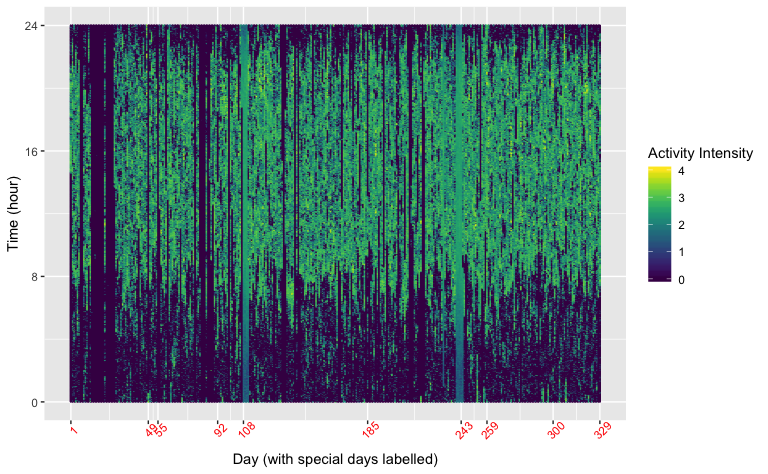
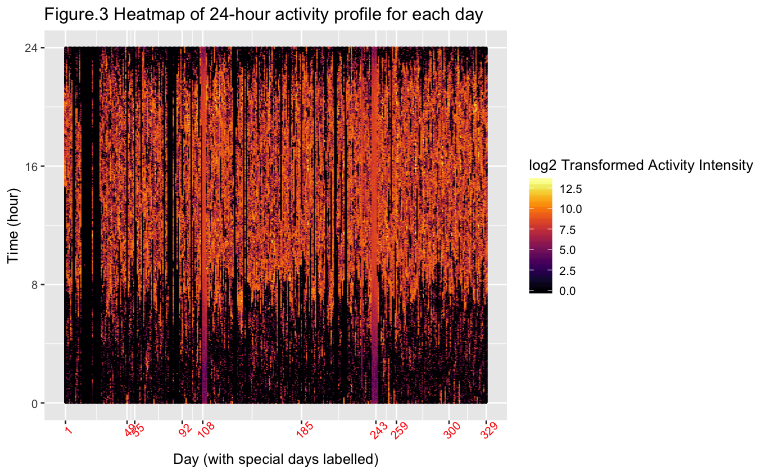
finish result part

diff --git a/p8105_mtp_zf2213.md b/p8105_mtp_zf2213.md
@@ -109,7 +109,8 @@ scatter_total <- activity_day_total %>%
       geom_smooth(method = "lm", aes(linetype = abnormal_day), color = "black", show.legend = FALSE, se = FALSE) +
       # labels, ticks, axis, titles, etc...
       scale_linetype_manual(values = c(1, 0)) +
-      labs(x = "Day", color = "Abnormal Days", fill = "Abnormal Day") +
+      labs(x = "Day", color = "Abnormal Days", fill = "Abnormal Day",
+             title = "Figure.1 Total daily activity over time") +
       theme(
        axis.ticks.y = element_blank(),
        axis.title.y = element_blank(),
@@ -159,9 +160,10 @@ to 0. Significance level: 0.01.
     ## Multiple R-squared:  0.03959,    Adjusted R-squared:  0.03631 
     ## F-statistic: 12.08 on 1 and 293 DF,  p-value: 0.0005877
 
-The p-value of correlation of total activities over time is 5.8810^{-4}.
-So at 0.01 significance level, we have enough evidence to reject the
-null hypothesis and conclude that the patient became more active over
+The p-value of correlation of total activities over time is
+0.0005877388. So at 0.01 significance level, we have enough evidence to
+reject the null hypothesis and conclude that the patient became more
+active over
 time.
 
 ### The effect of days in a week on total activities.
@@ -184,7 +186,8 @@ activity_day_total %>%
     scale_y_continuous(labels = scales::comma) +
       labs(
         x = "Day",
-        y = "Total activity in the days"
+        y = "Total activity in the days",
+        title = "Figure.2 Activity of days in the week"
       )
 ```
 
@@ -200,7 +203,7 @@ all the same.
 # display 24-hour profile for each day using 2d density plot
 activity %>%
     # using heatmap to show every minute of each day
-    ggplot(aes(y = minute_in_day / 60, x = day, color = log10(counts))) +
+    ggplot(aes(y = minute_in_day / 60, x = day, color = log(counts, 2))) +
       # heatmap
       geom_point(size = 0.1, alpha = 0.5) +
       # label special days
@@ -209,13 +212,15 @@ activity %>%
       scale_y_continuous(breaks = c(0, 8, 16, 24)) +
       # palette
       viridis::scale_color_viridis(
-        name = "Activity Intensity",
+        name = "log2 Transformed Activity Intensity",
+        option = "inferno",
         discrete = FALSE
       ) +
       # labels and themes
       labs(
         y = "Time (hour)",
-        x = "Day (with special days labelled)"
+        x = "Day (with special days labelled)",
+        title = "Figure.3 Heatmap of 24-hour activity profile for each day"
       ) +
       theme(
         axis.text.x = element_text(color = "red", angle = 45)
@@ -224,9 +229,12 @@ activity %>%
 
 <img src="p8105_mtp_zf2213_files/figure-gfm/heatmap-1.png" width="100%" />
 
-``` r
-# refer to supplementary material for special days
-```
+The patient are active during days and sedatory during night. He seems
+to live a regular life.
+
+Regarding the data, there seem to be some “special” days (as mentioned
+in Figure.1), and some days with extremely low variance. Refer to
+supplementary material for more information.
 
 ### Daily distribution
 
@@ -234,23 +242,30 @@ activity %>%
 activity %>%
     # grouping to get number of a type of activity
     group_by(minute_in_day, day_in_week) %>%
+    # get group total (adding the total activity of a single time point in a day across all days would be less sensitive to missing values)
     summarize(total_activity = sum(counts)) %>%
+    # plot scatterplot and smoothline 
     ggplot(aes(x = minute_in_day / 60, y = total_activity, color = day_in_week)) +
+      # scatterplot
       geom_point(size = 1, alpha = 0.6) +
+      # add smoothline
       geom_smooth(color = "black", linetype = 1) +
+      # labels and axises
       scale_x_continuous(breaks = c(0, 8, 16, 24)) +
       scale_y_continuous(labels = scales::comma) +
       labs(
         x = "Time (hour)",
         y = "Total Counts",
-        color = "Day in Week"
+        color = "Day in Week",
+        title = "Figure 4. "
       ) + 
+      # get the 24-hour profile for each day of the week
       facet_grid(. ~ day_in_week)
 ```
 
     ## `geom_smooth()` using method = 'gam' and formula 'y ~ s(x, bs = "cs")'
 
-<img src="p8105_mtp_zf2213_files/figure-gfm/unnamed-chunk-1-1.png" width="100%" />
+<img src="p8105_mtp_zf2213_files/figure-gfm/24hour_day_in_week-1.png" width="100%" />
 
 ## Discussion
 
@@ -266,4 +281,4 @@ activity %>%
       labs(x = "Time (hour)", y = "log10 Transformed Counts", color = "Special Days")
 ```
 
-<img src="p8105_mtp_zf2213_files/figure-gfm/unnamed-chunk-2-1.png" width="100%" />
+<img src="p8105_mtp_zf2213_files/figure-gfm/unnamed-chunk-1-1.png" width="100%" />
